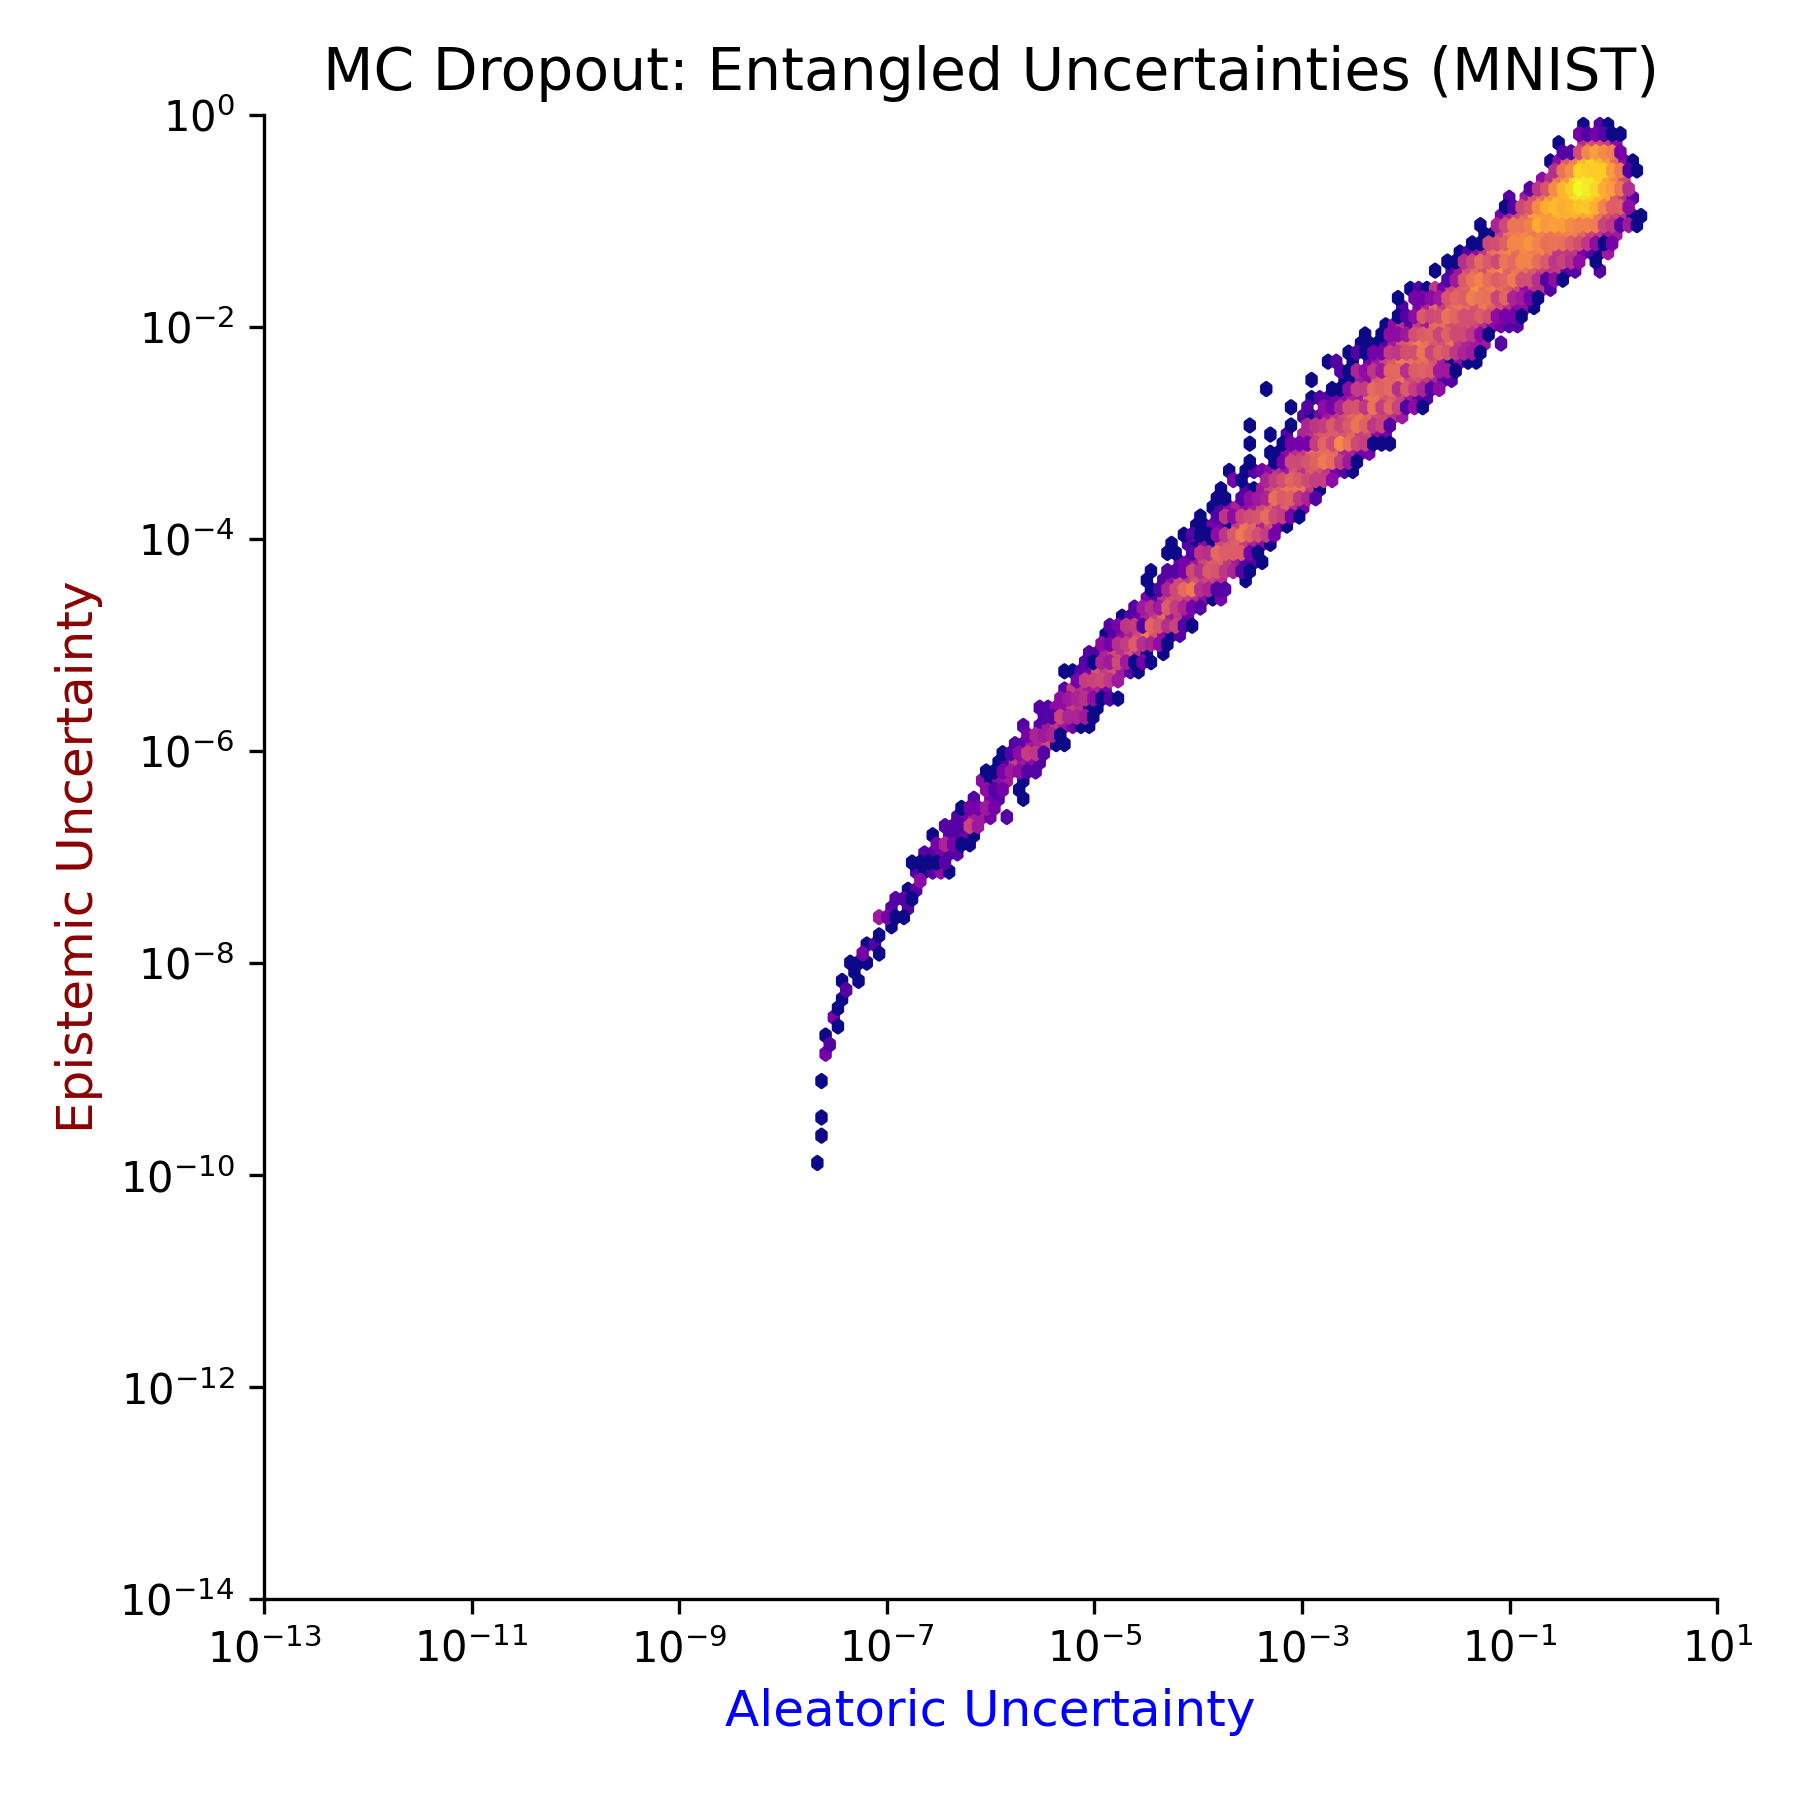
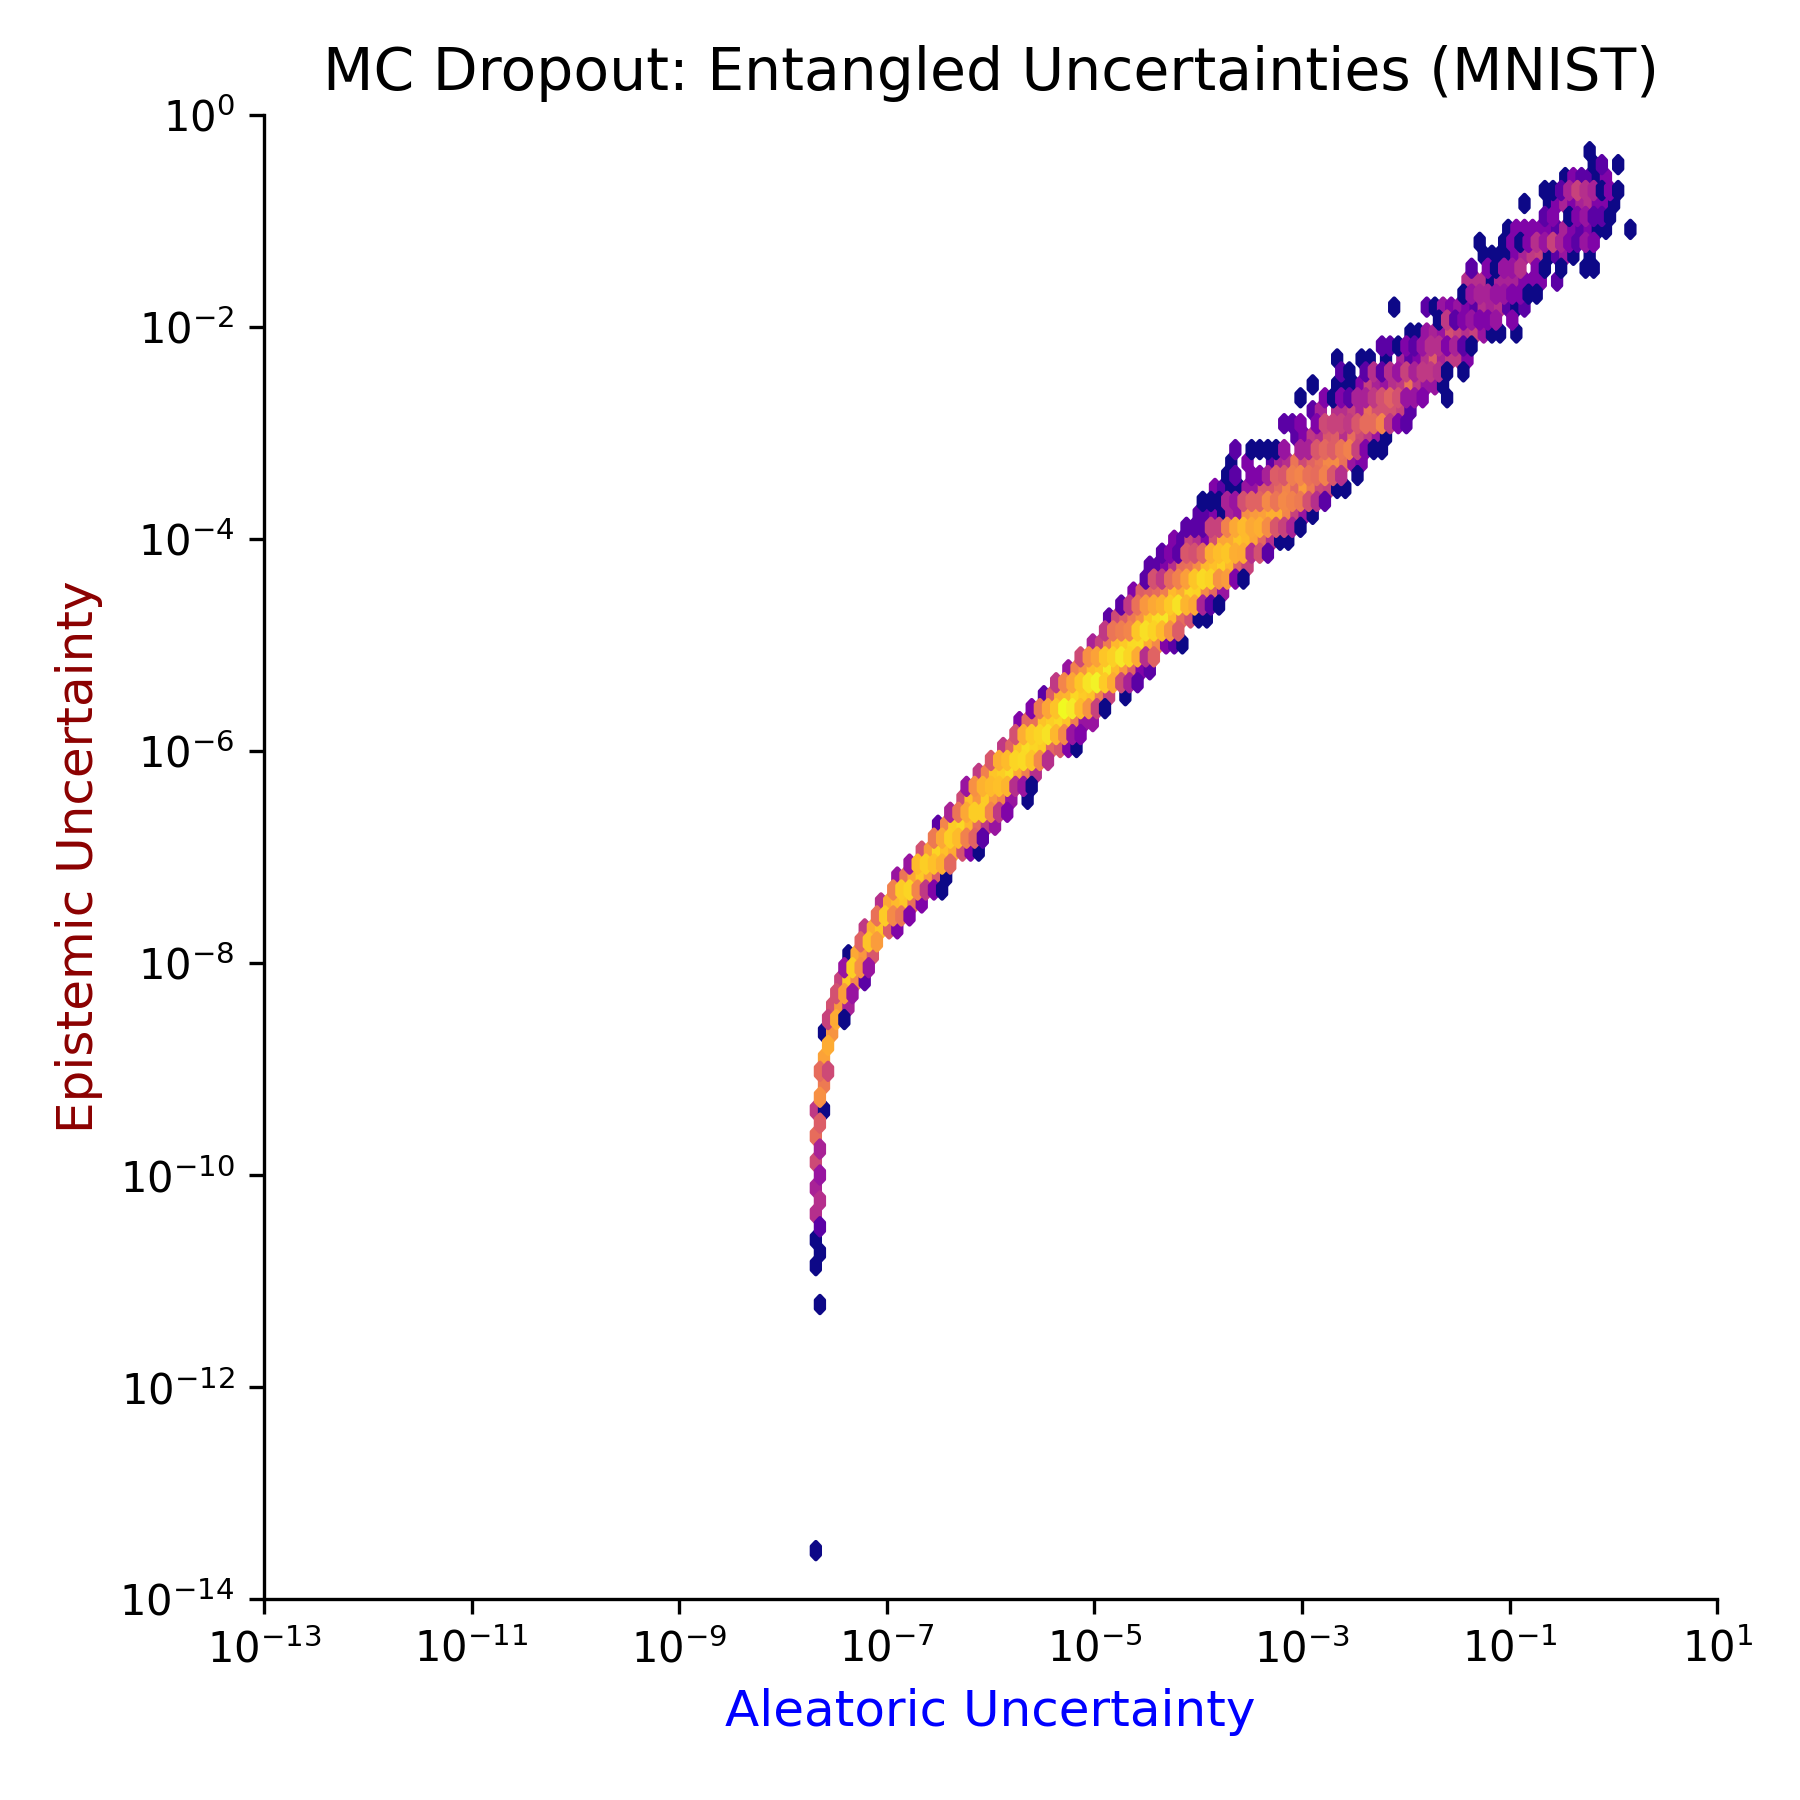
Refactor code structure for improved readability and maintainability

Changed region(s): [[0.4356, 0.0622, 0.9333, 0.7156]]

diff --git a/make_plots.py b/make_plots.py
@@ -2,12 +2,12 @@ import torch
 import pickle
 import numpy as np
 import matplotlib.pyplot as plt
-from helper_functions import calculate_uncertainty_setting_a
+from helper_functions import calculate_uncertainty_setting_a, calculate_uncertainty_setting_b, evaluate_missclass
 
 # ==========================================
 # 1. LOAD DATA
 # ==========================================
-pkl_file_path = r"data/emnist_preds.pkl" 
+pkl_file_path = r"data/mnist_preds.pkl" 
 print(f"Loading {pkl_file_path} ...")
 
 with open(pkl_file_path, 'rb') as f:
